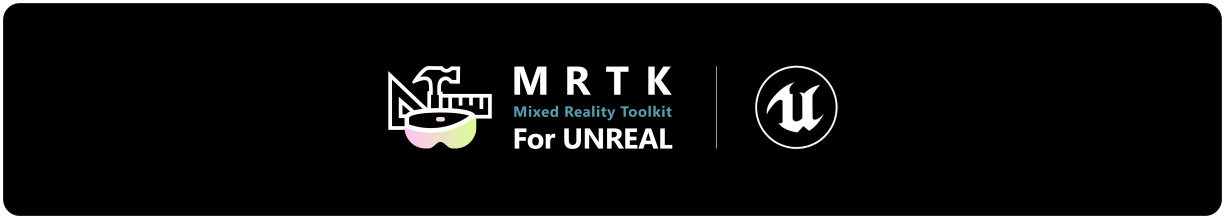
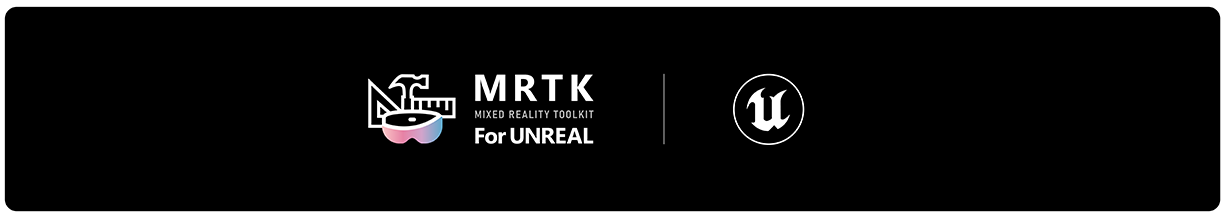
Updating MRTK branding and docs. (#14)

diff --git a/README.md b/README.md
@@ -5,8 +5,6 @@ The Mixed Reality Toolkit for Unreal (MRTK-Unreal) is a set of components, in th
 
 In this repository you can find information about the current components of this toolkit. Please follow the relevant links in this page to access the code and documentation of each individual component.
 
-Currently the toolkit consists of the [UX Tools for Unreal](https://github.com/microsoft/MixedReality-UXTools-Unreal), providing code, blueprints and examples to implement UX features for Hololens 2 applications.
-
 We’d recommend taking a look at the [Frequently Asked Questions](FAQ.md) and the [Further documentation](#further-documentation) section.
 
 # MRTK-Unreal components
@@ -20,7 +18,7 @@ We’d recommend taking a look at the [Frequently Asked Questions](FAQ.md) and t
 
 All components in MRTK-Unreal depend on the following plugins:
 - The [HoloLens 2 engine plugin](https://docs.unrealengine.com/en-US/Platforms/AR/HoloLens2/index.html) (shipped with Unreal Engine) provides access to HoloLens 2 APIs and features.
-- The [Windows Mixed Reality engine plugin](https://docs.unrealengine.com/en-US/Platforms/VR/WMR/index.html) (shipped with Unreal Engine) provides access to Windows Mixed Reality APIs and features.
+- The [Windows Mixed Reality engine plugin](https://docs.unrealengine.com/en-US/Platforms/VR/WMR/index.html) (shipped with Unreal Engine) provides access to Windows Mixed Reality APIs and features, or the [Microsoft OpenXR plugin](https://github.com/microsoft/Microsoft-OpenXR-Unreal) (shipped on the Unreal Marketplace) which provides some additional functionality specific to Microsoft's Mixed Reality platforms.
 
 
 # Further documentation

diff --git a/FAQ.md b/FAQ.md
@@ -4,7 +4,7 @@
 
 ## Where can I download MRTK-Unreal?
 
-MRTK-Unreal is not a single package. You can download and use each component in MRTK-Unreal individually. The first component being made available is [UX Tools for Unreal](https://github.com/microsoft/MixedReality-UXTools-Unreal).
+MRTK-Unreal is not a single package. You can download and use each component in MRTK-Unreal individually. The first component being made available is [UX Tools for Unreal](https://github.com/microsoft/MixedReality-UXTools-Unreal) and the second is [Graphics Tools for Unreal](https://github.com/microsoft/MixedReality-GraphicsTools-Unreal).
 
 ## Where can I learn more about Unreal / Mixed Reality / HoloLens 2 Development?
 
